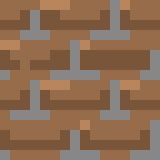
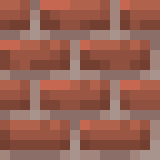
textures correctly placed :)

diff --git a/src/display3d.c b/src/display3d.c
@@ -6,7 +6,7 @@
 /*   By: kposthum <kposthum@student.codam.nl>         +#+                     */
 /*                                                   +#+                      */
 /*   Created: 2024/01/17 11:07:48 by kposthum      #+#    #+#                 */
-/*   Updated: 2024/01/18 13:36:21 by kposthum      ########   odam.nl         */
+/*   Updated: 2024/01/18 15:02:55 by kposthum      ########   odam.nl         */
 /*                                                                            */
 /* ************************************************************************** */
 
@@ -69,7 +69,6 @@ size_t	determine_tex_start(float pos, uint32_t width)
 	float	temp;
 
 	temp = pos / (float)BLOCKSIZE;
-	// printf("pos <%f>, temp <%f>, width <%u>\n", pos, temp, width);
 	temp = temp - floor(temp);
 	return ((size_t)(temp * width));
 }
@@ -81,15 +80,14 @@ uint32_t	get_pixel(mlx_texture_t *tex, size_t x, size_t y, size_t ray)
 	uint8_t	b;
 	uint8_t	a;
 
-	// if (ray == 0)
-	// 	printf("last should be same <%zu> <%d>\n<%lu>\n", y, tex->height, x);
-	// if (y == 0)
-	// 	printf("highest should be same <%lu> <%u>\n", x, tex->width);
-	r = tex->pixels[y * x * tex->bytes_per_pixel];
-	g = tex->pixels[y * x * tex->bytes_per_pixel + 1];
-	b = tex->pixels[y * x * tex->bytes_per_pixel + 2];
-	a = tex->pixels[y * x * tex->bytes_per_pixel + 3];
-	return (get_rgba(r, g, b, a));
+	if (x < tex->width && y < tex->height){
+	r = tex->pixels[(y * tex->width + x) * tex->bytes_per_pixel];
+	g = tex->pixels[(y * tex->width + x) * tex->bytes_per_pixel + 1];
+	b = tex->pixels[(y * tex->width + x) * tex->bytes_per_pixel + 2];
+	a = tex->pixels[(y * tex->width + x) * tex->bytes_per_pixel + 3];
+	return (get_rgba(r, g, b, a));}
+	else
+		return (get_rgba(0, 0, 0, 0));
 }
 
 // get_pixel(tex, scale, tex_start, h)
@@ -119,7 +117,7 @@ void	draw_screen(mlx_image_t *screen, t_ray *rays, t_data **data)
 			{
 				mlx_put_pixel(screen, r,
 					(HEIGHT / 2 - rays[r].wall_height / 2) + h,
-					get_pixel(tex, tex_start, h * scale, r));
+					get_pixel(tex, tex_start, (h + 1) * scale, r));
 			}
 			h++;
 		}
